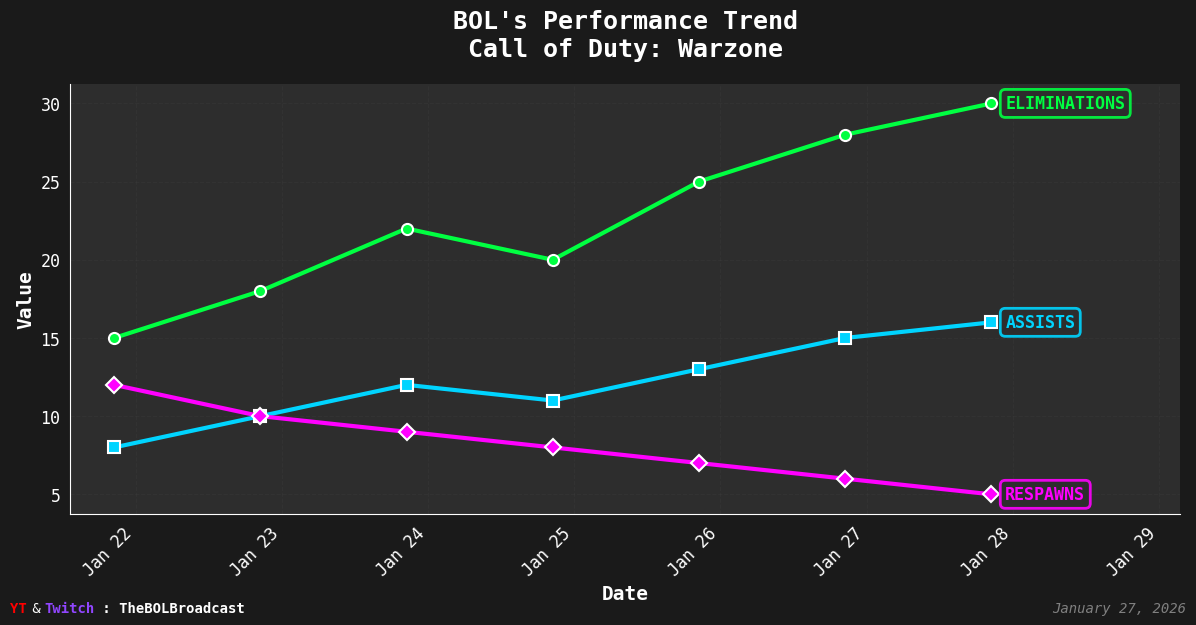
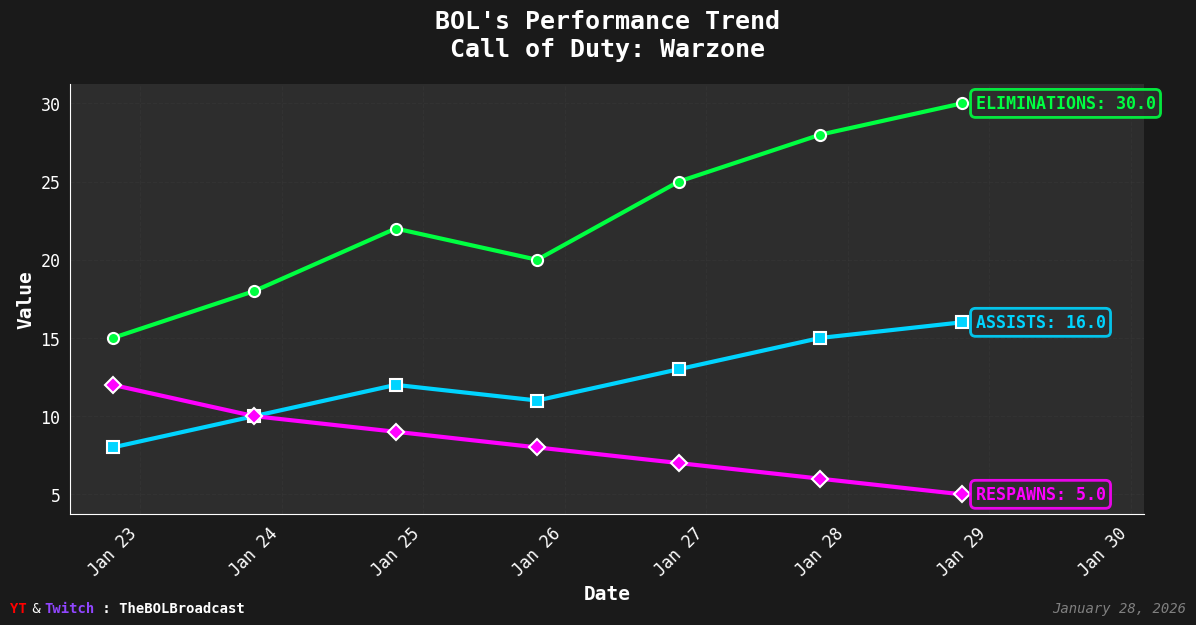
feat: Implement logarithmic scaling for charts and add render build script for font installation

diff --git a/chart_utils.py b/chart_utils.py
@@ -7,6 +7,7 @@ Features:
 - Direct line labels (no legend clutter)
 - Holiday-themed color palettes
 - Multi-platform support (Twitter 1200x630, Instagram 1080x1080)
+- LOGARITHMIC SCALING for highly skewed data
 """
 
 import matplotlib.pyplot as plt
@@ -15,6 +16,7 @@ import seaborn as sns
 from datetime import datetime
 import io
 import os
+import numpy as np
 from holiday_themes import get_themed_colors
 
 # Set style for professional-looking charts
@@ -44,11 +46,48 @@ except:
 plt.rcParams['font.size'] = 12
 
 
+def should_use_log_scale(values):
+    """
+    Determine if logarithmic scaling should be used based on data distribution.
+    
+    Uses log scale when:
+    - Max value is 100x or more than the median non-zero value
+    - This indicates highly skewed data (e.g., [600, 2, 2, 1])
+    
+    Args:
+        values: list of numeric values
+    
+    Returns:
+        bool: True if log scale should be used
+    """
+    if not values or len(values) < 2:
+        return False
+    
+    # Filter out zeros for ratio calculation
+    non_zero_values = [v for v in values if v > 0]
+    
+    if not non_zero_values or len(non_zero_values) < 2:
+        return False
+    
+    max_val = max(non_zero_values)
+    median_val = sorted(non_zero_values)[len(non_zero_values) // 2]
+    
+    # Use log scale if max is 100x or more than median
+    ratio = max_val / median_val if median_val > 0 else 0
+    
+    if ratio >= 100:
+        print(f"📊 Using logarithmic scale (ratio: {ratio:.1f}x)")
+        return True
+    
+    return False
+
+
 def generate_bar_chart(stat_data, player_name, game_name, game_installment=None, size='twitter'):
     """
     Generate a HORIZONTAL bar chart for first-time game stats.
     Horizontal layout improves readability (left-to-right reading).
     Bars are AUTOMATICALLY SORTED from largest to smallest (top to bottom).
+    AUTOMATICALLY USES LOG SCALE when data is highly skewed (e.g., [600, 2, 1])
     
     Args:
         stat_data: dict with keys 'stat1', 'stat2', 'stat3'
@@ -61,7 +100,7 @@ def generate_bar_chart(stat_data, player_name, game_name, game_installment=None,
     Returns:
         BytesIO object containing PNG image
     """
-     # Extract data
+    # Extract data
     stats = []
     for i in range(1, 4):
         label = stat_data.get(f'stat{i}', {}).get('label', f'Stat {i}')
@@ -69,7 +108,7 @@ def generate_bar_chart(stat_data, player_name, game_name, game_installment=None,
         stats.append({'label': label, 'value': value})
     
     # SORT by value (largest to smallest)
-    stats.sort(key=lambda x: x['value'], reverse=True)# Extract data
+    stats.sort(key=lambda x: x['value'], reverse=True)
     
     # Extract sorted labels and values
     labels = [s['label'] for s in stats]
@@ -78,6 +117,9 @@ def generate_bar_chart(stat_data, player_name, game_name, game_installment=None,
     # REVERSE for matplotlib (barh plots bottom-to-top, we want largest on top)
     labels.reverse()
     values.reverse()
+    
+    # Determine if we should use log scale
+    use_log = should_use_log_scale(values)
  
     # Get holiday-themed colors
     theme = get_themed_colors()
@@ -96,25 +138,56 @@ def generate_bar_chart(stat_data, player_name, game_name, game_installment=None,
         label_fontsize = 14
     
     # Create HORIZONTAL bar chart (barh instead of bar)
-    bars = ax.barh(labels, values, color=colors, edgecolor='white', linewidth=2)
+    if use_log:
+        # Use logarithmic scale for x-axis
+        # Replace zeros with a small value for log scale (log(0) is undefined)
+        plot_values = [max(v, 0.1) for v in values]
+        bars = ax.barh(labels, plot_values, color=colors, edgecolor='white', linewidth=2)
+        ax.set_xscale('log')
+        
+        # Custom x-axis formatting for log scale
+        from matplotlib.ticker import FuncFormatter
+        def log_formatter(x, pos):
+            """Format log scale labels to show actual values"""
+            if x >= 1000:
+                return f'{int(x/1000)}k'
+            elif x >= 1:
+                return f'{int(x)}'
+            else:
+                return f'{x:.1f}'
+        
+        ax.xaxis.set_major_formatter(FuncFormatter(log_formatter))
+    else:
+        # Normal linear scale
+        bars = ax.barh(labels, values, color=colors, edgecolor='white', linewidth=2)
     
-    # Add value labels at the end of bars (right side)
-    for bar, value in zip(bars, values):
+    # Add value labels at the end of bars (right side) - ALWAYS show ACTUAL values
+    for bar, actual_value in zip(bars, values):
         width = bar.get_width()
+        
+        # Format the value text
+        if isinstance(actual_value, (int, float)):
+            if actual_value >= 1000:
+                value_text = f' {actual_value:,.0f}'  # Use commas for thousands
+            else:
+                value_text = f' {actual_value:.0f}'
+        else:
+            value_text = f' {str(actual_value)}'
+        
         ax.text(width, bar.get_y() + bar.get_height()/2.,
-                f' {value:,.0f}' if isinstance(value, (int, float)) else f' {str(value)}',
+                value_text,
                 ha='left', va='center', fontsize=value_fontsize, fontweight='bold', color='white')
     
     # Styling
     full_game_name = f"{game_name}: {game_installment}" if game_installment else game_name
     title_text = f"{player_name}'s First Game Stats\n{full_game_name}"
     
-     # Add theme indicator ONLY if today is EXACT holiday date
+    # Add theme indicator ONLY if today is EXACT holiday date
     if theme['show_in_title']:
         title_text += f"\n{theme['theme_name']}"
     
     ax.set_title(title_text, fontsize=title_fontsize, fontweight='bold', color='white', pad=20)
-    ax.set_xlabel('Value', fontsize=label_fontsize, fontweight='bold')
+    ax.set_xlabel('Value' + (' (log scale)' if use_log else ''), fontsize=label_fontsize, fontweight='bold')
     ax.set_ylabel('Stats', fontsize=label_fontsize, fontweight='bold')
     
     # Grid (vertical for horizontal bars)
@@ -203,6 +276,17 @@ def generate_line_chart(stat_history, player_name, game_name, game_installment=N
     # Store line end positions for direct labeling
     line_end_positions = []
     
+    # Collect all values to check if we need log scale
+    all_values = []
+    for i in range(1, 4):
+        stat_key = f'stat{i}'
+        if stat_key in stat_history and stat_history[stat_key]:
+            values = stat_history[stat_key].get('values', [])
+            all_values.extend(values)
+    
+    # Determine if we should use log scale
+    use_log = should_use_log_scale(all_values) if all_values else False
+    
     # Plot each stat
     for i in range(1, 4):
         stat_key = f'stat{i}'
@@ -211,7 +295,13 @@ def generate_line_chart(stat_history, player_name, game_name, game_installment=N
             values = stat_history[stat_key].get('values', [])
             
             if values:
-                line, = ax.plot(dates, values, 
+                # For log scale, replace zeros with small value
+                if use_log:
+                    plot_values = [max(v, 0.1) for v in values]
+                else:
+                    plot_values = values
+                
+                line, = ax.plot(dates, plot_values, 
                        color=colors[i-1], 
                        marker=markers[i-1], 
                        linewidth=3, 
@@ -220,14 +310,29 @@ def generate_line_chart(stat_history, player_name, game_name, game_installment=N
                        markeredgecolor='white',
                        markeredgewidth=1.5)
                 
-                # Store final position for direct label
+                # Store final position for direct label (use ACTUAL value, not log-transformed)
                 if len(dates) > 0 and len(values) > 0:
                     line_end_positions.append({
                         'x': dates[-1],
-                        'y': values[-1],
+                        'y': plot_values[-1],  # Use plot value for positioning
+                        'actual_y': values[-1],  # Store actual value for display
                         'label': label,
                         'color': colors[i-1]
                     })
+    
+    # Set log scale if needed
+    if use_log:
+        ax.set_yscale('log')
+        from matplotlib.ticker import FuncFormatter
+        def log_formatter(x, pos):
+            """Format log scale labels to show actual values"""
+            if x >= 1000:
+                return f'{int(x/1000)}k'
+            elif x >= 1:
+                return f'{int(x)}'
+            else:
+                return f'{x:.1f}'
+        ax.yaxis.set_major_formatter(FuncFormatter(log_formatter))
     
     # Styling
     full_game_name = f"{game_name}: {game_installment}" if game_installment else game_name
@@ -238,7 +343,7 @@ def generate_line_chart(stat_history, player_name, game_name, game_installment=N
         title_text += f"\n{theme['theme_name']}"
     
     ax.set_title(title_text, fontsize=title_fontsize, fontweight='bold', color='white', pad=20)
-    ax.set_ylabel('Value', fontsize=label_fontsize, fontweight='bold')
+    ax.set_ylabel('Value' + (' (log scale)' if use_log else ''), fontsize=label_fontsize, fontweight='bold')
     ax.set_xlabel('Date', fontsize=label_fontsize, fontweight='bold')
     
     # Format x-axis dates
@@ -255,13 +360,25 @@ def generate_line_chart(stat_history, player_name, game_name, game_installment=N
         # Sort by y-position to avoid overlaps
         line_end_positions.sort(key=lambda x: x['y'])
         
-        # Add text labels at line ends
+        # Add text labels at line ends (show ACTUAL values, not log-transformed)
         for pos in line_end_positions:
             # Position label slightly to the right of last point
             label_x = pos['x']
             label_y = pos['y']
             
-            ax.annotate(pos['label'], 
+            # Format actual value for display
+            actual_val = pos['actual_y']
+            if isinstance(actual_val, (int, float)):
+                if actual_val >= 1000:
+                    value_display = f"{int(actual_val/1000)}k"
+                else:
+                    value_display = f"{actual_val:.1f}"
+            else:
+                value_display = str(actual_val)
+            
+            label_text = f"{pos['label']}: {value_display}"
+            
+            ax.annotate(label_text, 
                        xy=(label_x, label_y),
                        xytext=(10, 0),  # 10 points to the right
                        textcoords='offset points',
@@ -376,3 +493,5 @@ def get_stat_history_from_db(cur, player_id, game_id, top_stat_types, timezone_s
             values.append(avg_value)
         
         stat_history[stat_key]['values'] = values
+    
+    return stat_history
